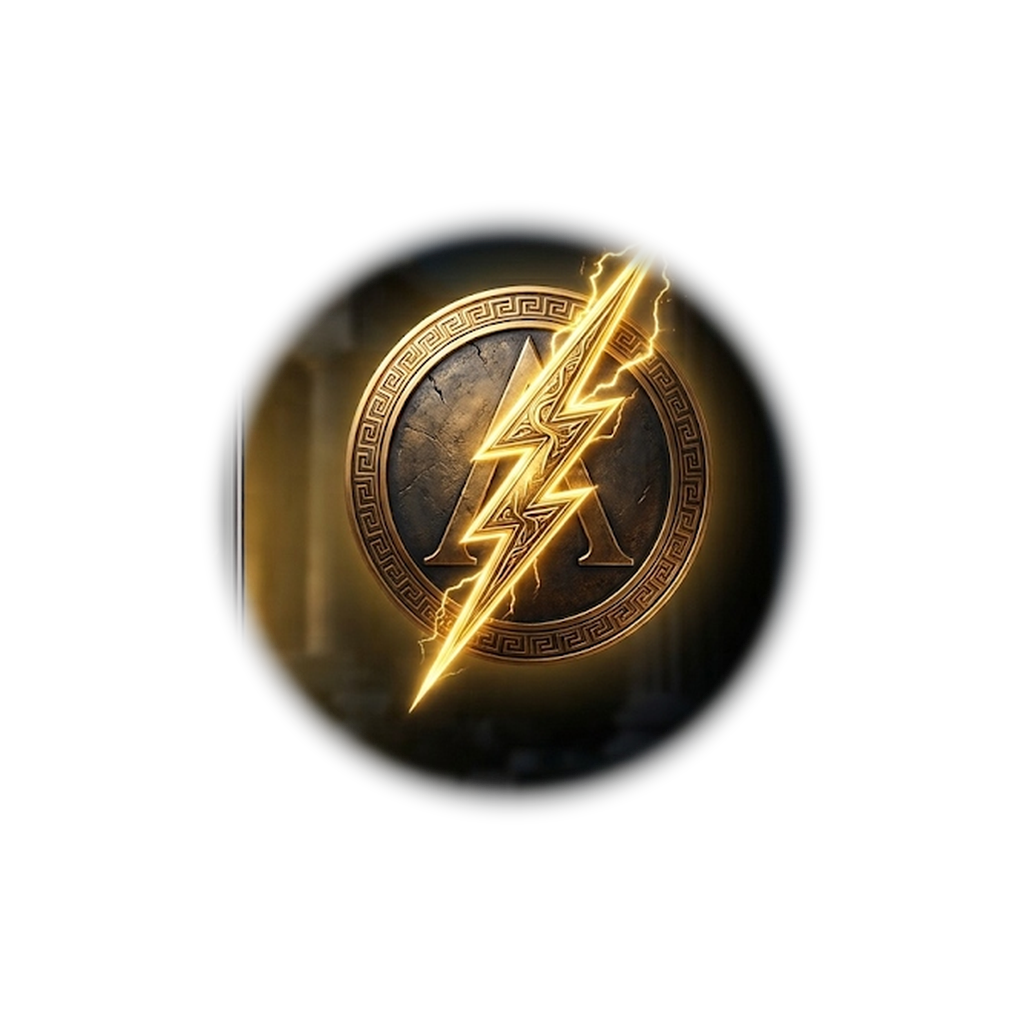
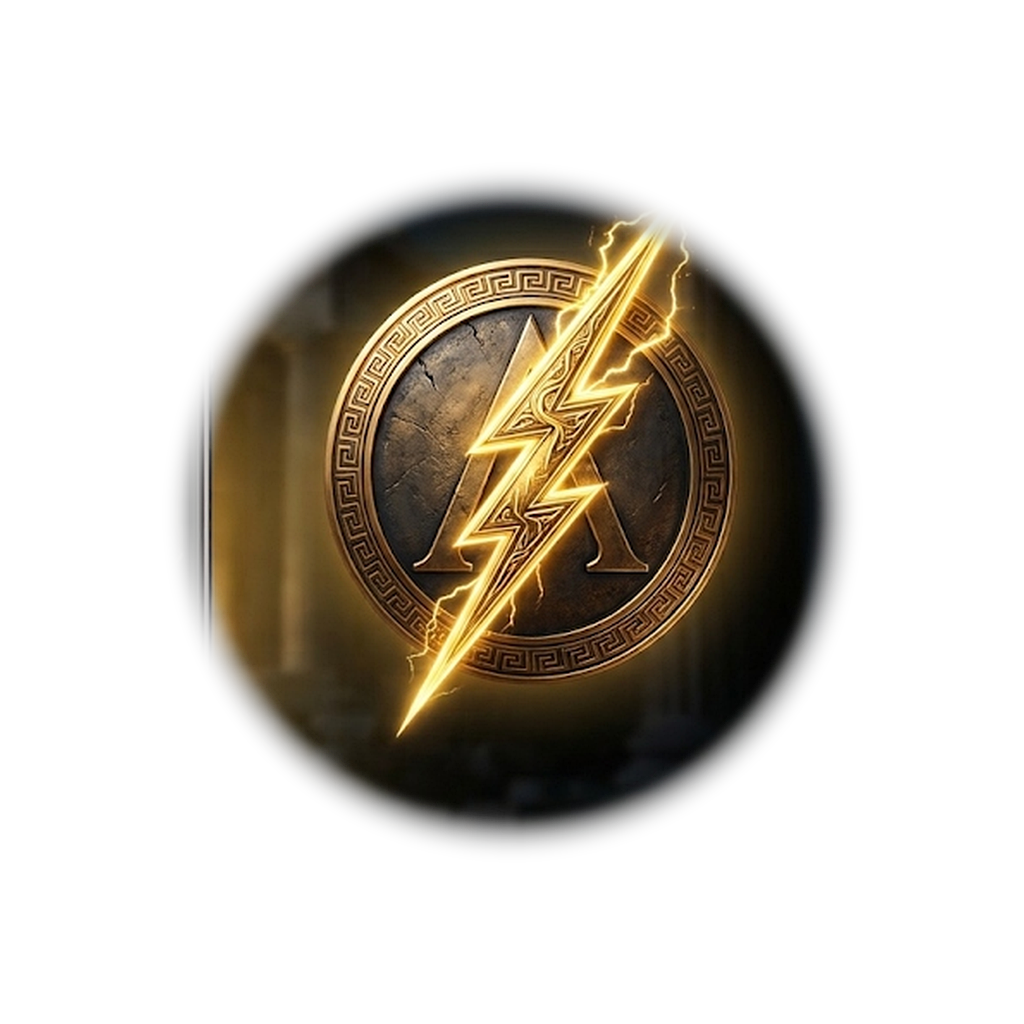
feat(pwa): integrar el logotipo canonico de Zeus de Vercel como icono oficial de descarga, PWA y Android/iOS

Changed region(s): [[0.1562, 0.1562, 0.8438, 0.8438]]

diff --git a/src/app/+html.tsx b/src/app/+html.tsx
@@ -1,0 +1,40 @@
+import { ScrollViewStyleReset } from 'expo-router/html';
+import type { PropsWithChildren } from 'react';
+
+export default function Root({ children }: PropsWithChildren) {
+  return (
+    <html lang="es">
+      <head>
+        <meta charSet="utf-8" />
+        <meta httpEquiv="X-UA-Compatible" content="IE=edge" />
+        <meta name="viewport" content="width=device-width, initial-scale=1, shrink-to-fit=no, viewport-fit=cover" />
+        
+        {/* PWA & Icon Tags */}
+        <title>Ataraxia — Templo del Autodominio</title>
+        <meta name="theme-color" content="#040406" />
+        <meta name="apple-mobile-web-app-capable" content="yes" />
+        <meta name="apple-mobile-web-app-status-bar-style" content="black-translucent" />
+        <meta name="apple-mobile-web-app-title" content="Ataraxia" />
+        
+        <link rel="icon" type="image/png" href="/favicon.png" />
+        <link rel="apple-touch-icon" href="/apple-touch-icon.png" />
+        <link rel="manifest" href="/manifest.json" />
+
+        <ScrollViewStyleReset />
+        <style dangerouslySetInnerHTML={{
+          __html: `
+            body, html, #root {
+              background-color: #040406 !important;
+              margin: 0;
+              padding: 0;
+              height: 100%;
+              width: 100%;
+              overflow-x: hidden;
+            }
+          `
+        }} />
+      </head>
+      <body>{children}</body>
+    </html>
+  );
+}
